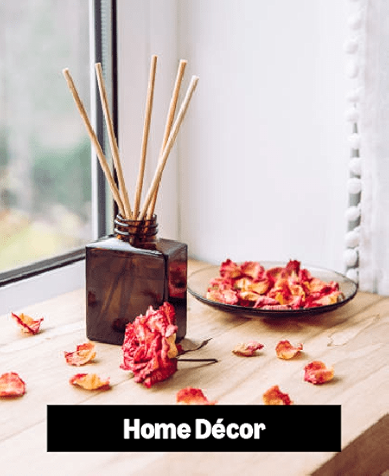
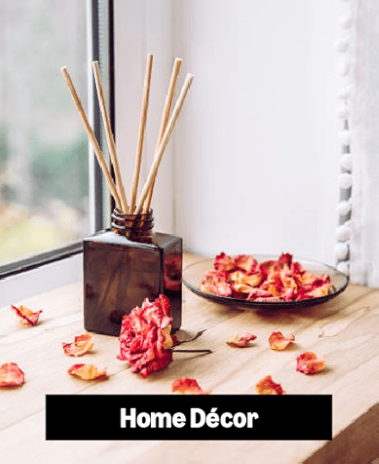
Updated home image and readme

Changed region(s): [[0.5224, 0.875, 0.6675, 0.9353], [0.4063, 0.875, 0.4644, 0.9353], [0.3193, 0.875, 0.3773, 0.9353]]

diff --git a/src/data/categories.js b/src/data/categories.js
@@ -1,5 +1,5 @@
 import gamingImg from "../assets/categories/game-category.jpg"
-import homeImg from "../assets/categories/home.png"
+import homeImg from "../assets/categories/home2.png"
 import kitchenImg from "../assets/categories/kitchen.jpg"
 import momImg from "../assets/categories/mom.jpg"
 import essentials from '../assets/categories/essentials.jpg'

diff --git a/README.md b/README.md
@@ -1,108 +1,78 @@
-# 🛒 Amazon Clone - First Day JR Intern Assignment
+# 🛒 Amazon Clone
 
 A fully functional Amazon-inspired e-commerce application built with React and JavaScript (Vite). This project recreates the core shopping experience with a responsive design, product management, cart functionality, and multiple custom features.
 
-**🎓 Assignment:** Your First Day as a JR Intern at Amazon - Build an Amazon Clone worth Jeff's approval!
-
-**Live Demo:** [Coming Soon - Deploy to Netlify](#) 🚀
+**Live Demo:** [https://lutendo-amazon-clone.netlify.app/](#) 🚀
 
 ---
 
-## 📊 Assignment Breakdown (100 Marks Total)
+## 🛠️ Tech Stack
 
-### ✅ 1) Base Project: Amazon Homepage Clone (40 marks)
-
-#### ✔️ Core UI & Functionality (20 marks)
-- [x] Top Navigation Bar with Amazon logo, search bar, account section, and cart icon
-- [x] Amazon logo clickable to home
-- [x] Cart icon with **dynamic item count badge** (shows total quantity)
-- [x] Hero banner with product showcase
-- [x] Product categories/cards (Electronics, Gaming, Home, Books, etc.)
-- [x] Product grid with 8+ products
-- [x] View product card (image, title, price, rating)
-- [x] Add to Cart functionality
-- [x] Remove from Cart functionality
-- [x] Cart page with items, quantity, subtotal display
-- [x] LocalStorage persistence for cart data
-
-#### ✔️ Responsiveness (20 marks)
-- [x] Laptop view (full multi-column layout)
-- [x] Mobile optimization (hamburger menu, single column)
-- [x] Search bar usable on all devices
-- [x] Product grid adapts (4 → 2 → 1 columns)
-- [x] Navigation collapses on mobile
+| Technology | Purpose |
+|-----------|---------|
+| **React 18** | Frontend UI library with Hooks |
+| **JavaScript (ES6+)** | Programming language |
+| **Vite** | Build tool & dev server |
+| **CSS3** | Styling & responsive design |
+| **React Router v6** | Client-side routing |
+| **Context API** | Global state management |
+| **useReducer Hook** | Complex state logic |
+| **Material-UI Icons** | Icon components |
+| **LocalStorage API** | Client-side data persistence |
+| **Intl.NumberFormat** | Currency localization |
 
 ---
 
-### ✅ 2) Features Upgrade (35 marks)
+## 📁 Project Structure
 
-#### 🧠 One Custom Feature Without Cursor (15 marks) - COMPLETED
-**Feature: Advanced Quantity Management System**
-- [x] **Smart Cart Quantity Selector** - No duplicate items in cart
-- [x] Click "+" to increment quantity (doesn't create duplicate entry)
-- [x] Click "-" to decrement quantity (removes item when qty = 0)
-- [x] Quantity picker UI with +/- buttons and counter display
-- [x] Cart badge shows **total quantity** (e.g., 3 items × 2 qty each = 5 in badge)
-- [x] Accurate subtotal that multiplies price × quantity
-- [x] All data persisted to localStorage
-- [x] Works across all pages (Header, Cart, Checkout, Orders)
-
-**Technical Highlights:**
-- Modified `reducer.js` to check for existing items before adding (prevents duplicates)
-- Updated `getBasketTotal()` to calculate `price × quantity`
-- Implemented decrement logic that only removes when quantity = 0
-- Custom `useShop` hook with intelligent `itemCount` calculation
-
-#### 🤖 Two Custom Features With Cursor (20 marks) - COMPLETED
-
-**Feature #1: Complete Checkout Flow UI (10 marks)**
-- [x] Shipping & Payment form with name, email, address fields
-- [x] Mock card payment section (Stripe-style inputs)
-- [x] Order Summary sidebar with live item calculations
-- [x] Line-item pricing (shows quantity × price)
-- [x] "Complete Purchase" button that processes order
-- [x] Order confirmation with thank you message
-- [x] Form validation
-
-**Feature #2: Order History & Persistence (10 marks)**
-- [x] Separate `orders` state in global context
-- [x] Orders saved to localStorage before basket is cleared
-- [x] Unique Order IDs generated automatically (#AMZ-XXXXXX-2026)
-- [x] Orders page displays all past purchases
-- [x] Each order shows date, items with quantities, and total
-- [x] Order items hidden from cart manipulation (read-only view)
-- [x] "No Orders Yet" state when no purchases made
-- [x] Multiple orders stacked chronologically
-
----
-
-### ⏳ 3) Loom Video Walkthrough (15 marks)
-- [ ] Status: Pending (Must record face-on-camera walkthrough)
-- [ ] Will demonstrate:
-  - Manual feature (Quantity Management)
-  - AI features (Checkout Flow & Order History)
-  - Cursor implementation showcase
-  - Under 5 minutes
-
-### ⏳ 4) Deployment on Netlify (10 marks)
-- [ ] Status: Pending (Ready to deploy)
-- [ ] Live Link: [Coming Soon]
-- [ ] GitHub Repository: [@LutendoLumina](https://github.com/LutendoLumina)
-
----
-
-## 📊 Current Progress
-
-| Task | Status | Marks |
-|------|--------|-------|
-| Base Amazon Clone (UI & Functionality) | ✅ COMPLETE | 20/20 |
-| Responsiveness | ✅ COMPLETE | 20/20 |
-| Custom Feature (Quantity System) | ✅ COMPLETE | 15/15 |
-| Checkout Flow UI | ✅ COMPLETE | 10/10 |
-| Order History & Persistence | ✅ COMPLETE | 10/10 |
-| Loom Video | ⏳ PENDING | 15/15 |
-| Netlify Deployment | ⏳ PENDING | 10/10 |
-| **TOTAL** | **✅ 55/100** | **55/100** |
+```
+amazon-clone/
+├── src/
+│   ├── assets/
+│   │   ├── amazon-logo.png
+│   │   ├── home_image.jpg
+|   |   └── categories/
+│   │   └── products/
+│   ├── components/
+│   │   ├── layouts/
+│   │   │   └── Header/
+│   │   │       ├── Header.jsx
+│   │   │       └── Header.css
+|   |   |   └── Footer/
+│   │   │       ├── Footer.jsx
+│   │   │       └── Footer.css
+│   │   ├── Home/
+│   │   │   ├── Home.jsx
+│   │   │   └── Home.css
+│   │   ├── Category/
+│   │   │   └── CategoryCard.jsx
+│   │   ├── Product/
+│   │   │   ├── Product.jsx
+│   │   │   └── Product.css
+│   │   ├── Cart/
+│   │   │   ├── Cart.jsx
+│   │   │   ├── Cart.css
+│   │   │   ├── CartProduct.jsx
+│   │   │   └── CartProduct.css
+│   │   ├── Checkout/
+│   │   │   ├── Checkout.jsx
+│   │   │   └── Checkout.css
+│   │   └── Orders/
+│   │       ├── Orders.jsx
+│   │       └── Orders.css
+│   ├── context/
+│   │   ├── StateProvider.jsx
+│   │   └── reducer.js
+│   ├── hooks/
+│   │   └── useShop.jsx
+│   ├── data/
+│   │   ├── categories.js
+│   │   └── products.js
+│   ├── App.jsx
+│   └── main.jsx
+├── README.md
+└── package.json
+```
 
 ---
 
@@ -200,202 +170,15 @@ A fully functional Amazon-inspired e-commerce application built with React and J
 
 ---
 
-### 1. Context-Aware Search (Manual Feature)
-- **Status:** ✅ Completed (15-Mark Assignment Requirement)[cite: 1]
-- **Description:** A custom-built search engine that allows users to find products in real-time without external libraries or AI assistance.[cite: 1]
-- **Engineering Highlights:**
-  - **Lifting State:** The search term is managed in the Global State Provider, allowing the `Header` to update the `Home` and `Product` results simultaneously.[cite: 1]
-  - **Advanced Filtering:** Implemented a combined `.filter()` logic that respects both the `categoryId` from the URL and the `searchTerm` string.[cite: 1]
-  - **Case-Insensitive Logic:** Utilized `.toLowerCase()` on both data and user input to ensure a seamless search experience.[cite: 1]
-
-  ### 2. Global State & LocalStorage
-- **Status:** ✅ Completed[cite: 1]
-- **Description:** Orchestrated a "Single Source of Truth" for the application using `useReducer`.[cite: 1]
-- **Key Details:**
-  - **Persistence:** The `reducer.js` handles `JSON.stringify` and `JSON.parse` to sync the state with `localStorage` on every cart update.[cite: 1]
-  - **Cart Intelligence:** The removal logic uses `findIndex` and `splice` to ensure only a single instance of a product is removed, preventing the accidental deletion of duplicate items.[cite: 1]
-
-### 3. Dynamic Product Results Page
-- **Status:** ✅ Completed[cite: 1]
-- **Key Details:** Leveraged `react-router-dom` and the `useParams` hook to capture category IDs from the URL to drive page content dynamically.[cite: 1]
-
-### 3. Responsive Design
-- **Status:** 🔄 In Progress
-- **Desktop:** Full layout with multi-column grids.
-- **Mobile:** Optimized touch targets and single-column category layouts.
-
----
-
-## 💡 Technical Highlights
-
-While building the current features, I focused on several core software engineering principles:
-
-*   **Separation of Concerns:** Metadata is stored in standalone data files, mimicking a real-world API data layer.
-*   **CSS Stacking Contexts:** Mastered the use of `position: relative` and `z-index` to manage complex, overlapping layouts.
-*   **DRY (Don't Repeat Yourself):** Utilized the JavaScript `.map()` function to generate the grid, ensuring the code remains clean and maintainable.
-
-### Quantity Management System (Advanced Feature)
-A sophisticated system for handling product quantities without duplicating items in the basket:
-
-**Architecture:**
-- **Reducer Logic:** The `ADD_TO_BASKET` action checks if an item already exists using `findIndex()`. If it does, it increments the `quantity` property instead of creating a duplicate.
-- **Decrement Logic:** The `REMOVE_FROM_BASKET` action decrements quantity before removing. Only when quantity reaches 0 is the item spliced from the basket.
-- **Total Calculation:** Updated `getBasketTotal()` to multiply `price × quantity` for accurate pricing.
-- **Item Count:** Modified `itemCount` calculation in both `useShop` hook and components to sum quantities using `.reduce()` instead of counting array length.
-
-**UI Components:**
-- **Quantity Picker:** Custom styled component with +/- buttons, orange border, and centered quantity display.
-- **Cart Badge:** Header badge now displays total quantity (3 items with qty 2 each = 5 in badge).
-- **Order Summary:** Checkout page shows correct quantities and line-item totals.
-
-**Key Files Modified:**
-- `reducer.js` - Enhanced ADD_TO_BASKET and REMOVE_FROM_BASKET logic
-- `useShop.jsx` - Updated itemCount calculation
-- `CartProduct.jsx` - Added quantity display and +/- button handlers
-- `CartProduct.css` - Styled quantity picker
-- `Header.jsx` - Updated cart badge to show total quantity
-- `Checkout.jsx` - Fixed order summary to show quantities and line totals
-- `Cart.jsx` - Passes quantity prop to CartProduct component
-
-## 💡 Technical Highlights (Product Results)
-
-In this phase, I focused on advanced React patterns and professional CSS layouts:
-
-*   **URL-Driven State:** Instead of keeping the category in local state, I moved it to the URL. This allows users to bookmark specific categories and use the browser's back/forward buttons.
-*   **Template Literals & Logic:** Used JavaScript template literals for dynamic string manipulation in navigation and header titles.
-*   **Reusable Component Design:** The `ProductCard` was designed to be independent of its parent, allowing it to be used in the homepage grid or the search results page without code duplication.
-
----
-
-## 📁 Project Structure
-amazon-clone/
-├── public/
-├── src/
-│   ├── assets/
-│   │   └── products/
-│   ├── components/
-│   │   ├── layouts/
-|   |   |   |── Header/
-│   │   ├── Home/
-│   │   ├── Category/
-│   │   └── Product/
-|   ├── context/         
-│   │   ├── StateProvider.jsx
-│   │   └── reducer.js
-│   ├── data/
-│   │   └── categories.js
-|   |   └── products.js
-│   ├── hooks/         
-│   │   └── useShop.js
-│   ├── App.jsx
-│   └── main.jsx
-└── README.md
-
----
-
----
-
-## 🛠️ Tech Stack
-
-| Technology | Purpose |
-|-----------|---------|
-| **React 18** | Frontend UI library with Hooks |
-| **JavaScript (ES6+)** | Programming language |
-| **Vite** | Build tool & dev server |
-| **CSS3** | Styling & responsive design |
-| **React Router v6** | Client-side routing |
-| **Context API** | Global state management |
-| **useReducer Hook** | Complex state logic |
-| **Material-UI Icons** | Icon components |
-| **LocalStorage API** | Client-side data persistence |
-| **Intl.NumberFormat** | Currency localization |
-
----
-
-## 📁 Project Structure
-
-```
-amazon-clone/
-├── src/
-│   ├── assets/
-│   │   ├── amazon-logo.png
-│   │   ├── home_image.jpg
-│   │   └── products/
-│   ├── components/
-│   │   ├── layouts/
-│   │   │   └── Header/
-│   │   │       ├── Header.jsx
-│   │   │       └── Header.css
-│   │   ├── Home/
-│   │   │   ├── Home.jsx
-│   │   │   └── Home.css
-│   │   ├── Category/
-│   │   │   └── CategoryCard.jsx
-│   │   ├── Product/
-│   │   │   ├── Product.jsx
-│   │   │   └── Product.css
-│   │   ├── Cart/
-│   │   │   ├── Cart.jsx
-│   │   │   ├── Cart.css
-│   │   │   ├── CartProduct.jsx
-│   │   │   └── CartProduct.css
-│   │   ├── Checkout/
-│   │   │   ├── Checkout.jsx
-│   │   │   └── Checkout.css
-│   │   └── Orders/
-│   │       ├── Orders.jsx
-│   │       └── Orders.css
-│   ├── context/
-│   │   ├── StateProvider.jsx
-│   │   └── reducer.js
-│   ├── hooks/
-│   │   └── useShop.jsx
-│   ├── data/
-│   │   ├── categories.js
-│   │   └── products.js
-│   ├── App.jsx
-│   └── main.jsx
-├── README.md
-└── package.json
-```
-
----
-
-## 🗺️ Roadmap & Future Improvements
-
-### Phase 1: Core Features ✅ COMPLETED
-- [x] Header and Navigation
-- [x] Category Grid Layout
-- [x] Product grid and individual product cards
-- [x] Add to cart & remove from cart logic
-- [x] LocalStorage persistence
-- [x] Global State Management (Context API + Reducers)
-- [x] Shopping Basket with quantity management
-- [x] Checkout & Order Summary
-
-### Phase 2: Enhanced Features ✅ COMPLETED
-- [x] **Manual Feature:** Search functionality and product filtering
-- [x] **Quantity Feature:** Smart cart quantity increment/decrement with no duplicates
-- [x] **Cart UI:** Quantity picker with +/- buttons and visual counter
-- [x] **Checkout Flow:** Order summary with accurate quantity and pricing
-
-### Phase 3: Future Improvements 🔄
+## Future Improvements 🔄
 - [ ] **Payment Integration:** Real Stripe integration for actual payments
 - [ ] **User Authentication:** Login/register functionality
-- [ ] **Order History:** View past orders and track shipments
 - [ ] **Dark Mode:** Toggle with preference storage
-- [ ] **Responsive Mobile:** Full mobile optimization for all pages
 - [ ] **Product Reviews:** User ratings and reviews system
 
 ---
 
 ## 📧 Contact & Support
 
-**Author:** Lutendo Lumina  
+**Author:** Lutendo Matshidze  
 **GitHub:** [@LutendoLumina](https://github.com/LutendoLumina)
-
----
-
-**Status:** 🚧 Under Development  
-**Last Updated:** May 10, 2026  
-**Progress:** UI Components ✅ | Core Features ✅ | Cart & Checkout ✅ | Deployment ⏳